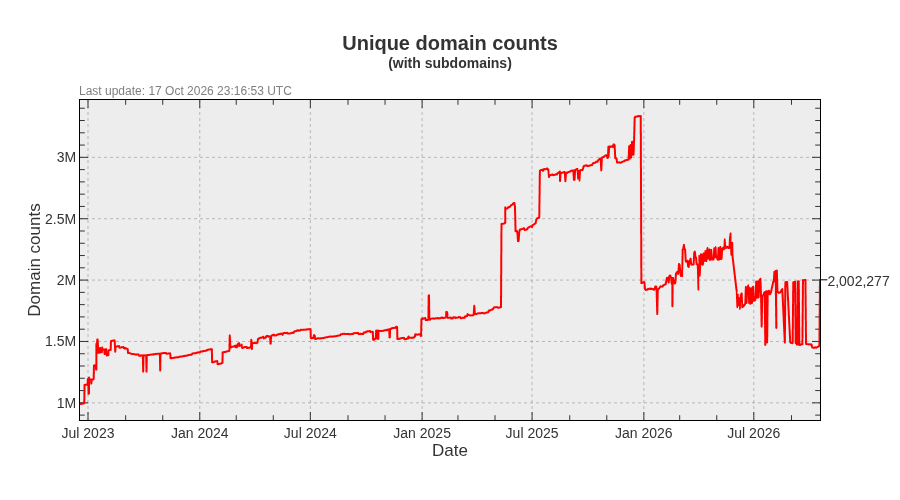
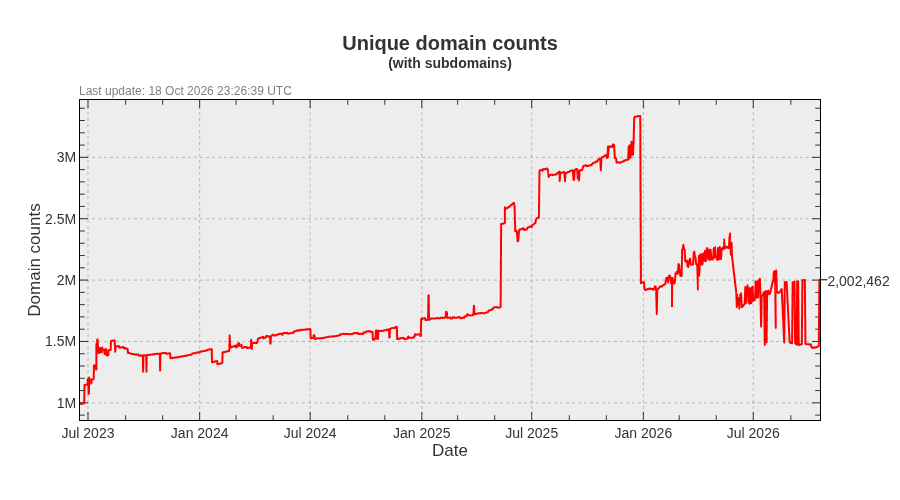
Update pages

diff --git a/README.md b/README.md
@@ -3,22 +3,22 @@ A blocklist file for blocking ads, trackers and malware domains.
 
[1 lines of base64/hex data omitted]
 
-- Unique domains: 2,002,277
-- Without subdomains: 1,220,189
-- Last update: 17 Oct 2026 23:16:53 UTC
-- Version: 2026.10.17.01
+- Unique domains: 2,002,462
+- Without subdomains: 1,219,910
+- Last update: 18 Oct 2026 23:26:39 UTC
+- Version: 2026.10.18.01
 
 
 ## Downloads:
 
 | Format             | Domain count      | Download Link |
 |------------------ | -----------------|-------------|
-| *Adblock Plus*     | 1,220,189 | [bad-hosts-abp](https://dl.cenk.app/bad-hosts/bad-hosts-abp) |
-| *Wildcard domains* | 1,220,189 | [bad-hosts-wildcard](https://dl.cenk.app/bad-hosts/bad-hosts-wildcard) |
-| *dnsmasq*          | 1,220,189 | [bad-hosts-dnsmasq](https://dl.cenk.app/bad-hosts/bad-hosts-dnsmasq) |
-| *hosts*            | 2,002,277 | [hosts](https://dl.cenk.app/bad-hosts/hosts) |
-| *hosts (ipv6)*     | 2,002,277 | [hosts-ipv6](https://dl.cenk.app/bad-hosts/hosts-ipv6) |
-| *Plain domains*    | 2,002,277 | [bad-hosts-domains](https://dl.cenk.app/bad-hosts/bad-hosts-domains) |
+| *Adblock Plus*     | 1,219,910 | [bad-hosts-abp](https://dl.cenk.app/bad-hosts/bad-hosts-abp) |
+| *Wildcard domains* | 1,219,910 | [bad-hosts-wildcard](https://dl.cenk.app/bad-hosts/bad-hosts-wildcard) |
+| *dnsmasq*          | 1,219,910 | [bad-hosts-dnsmasq](https://dl.cenk.app/bad-hosts/bad-hosts-dnsmasq) |
+| *hosts*            | 2,002,462 | [hosts](https://dl.cenk.app/bad-hosts/hosts) |
+| *hosts (ipv6)*     | 2,002,462 | [hosts-ipv6](https://dl.cenk.app/bad-hosts/hosts-ipv6) |
+| *Plain domains*    | 2,002,462 | [bad-hosts-domains](https://dl.cenk.app/bad-hosts/bad-hosts-domains) |
 
 ## Domain count history
 ### With subdomains
